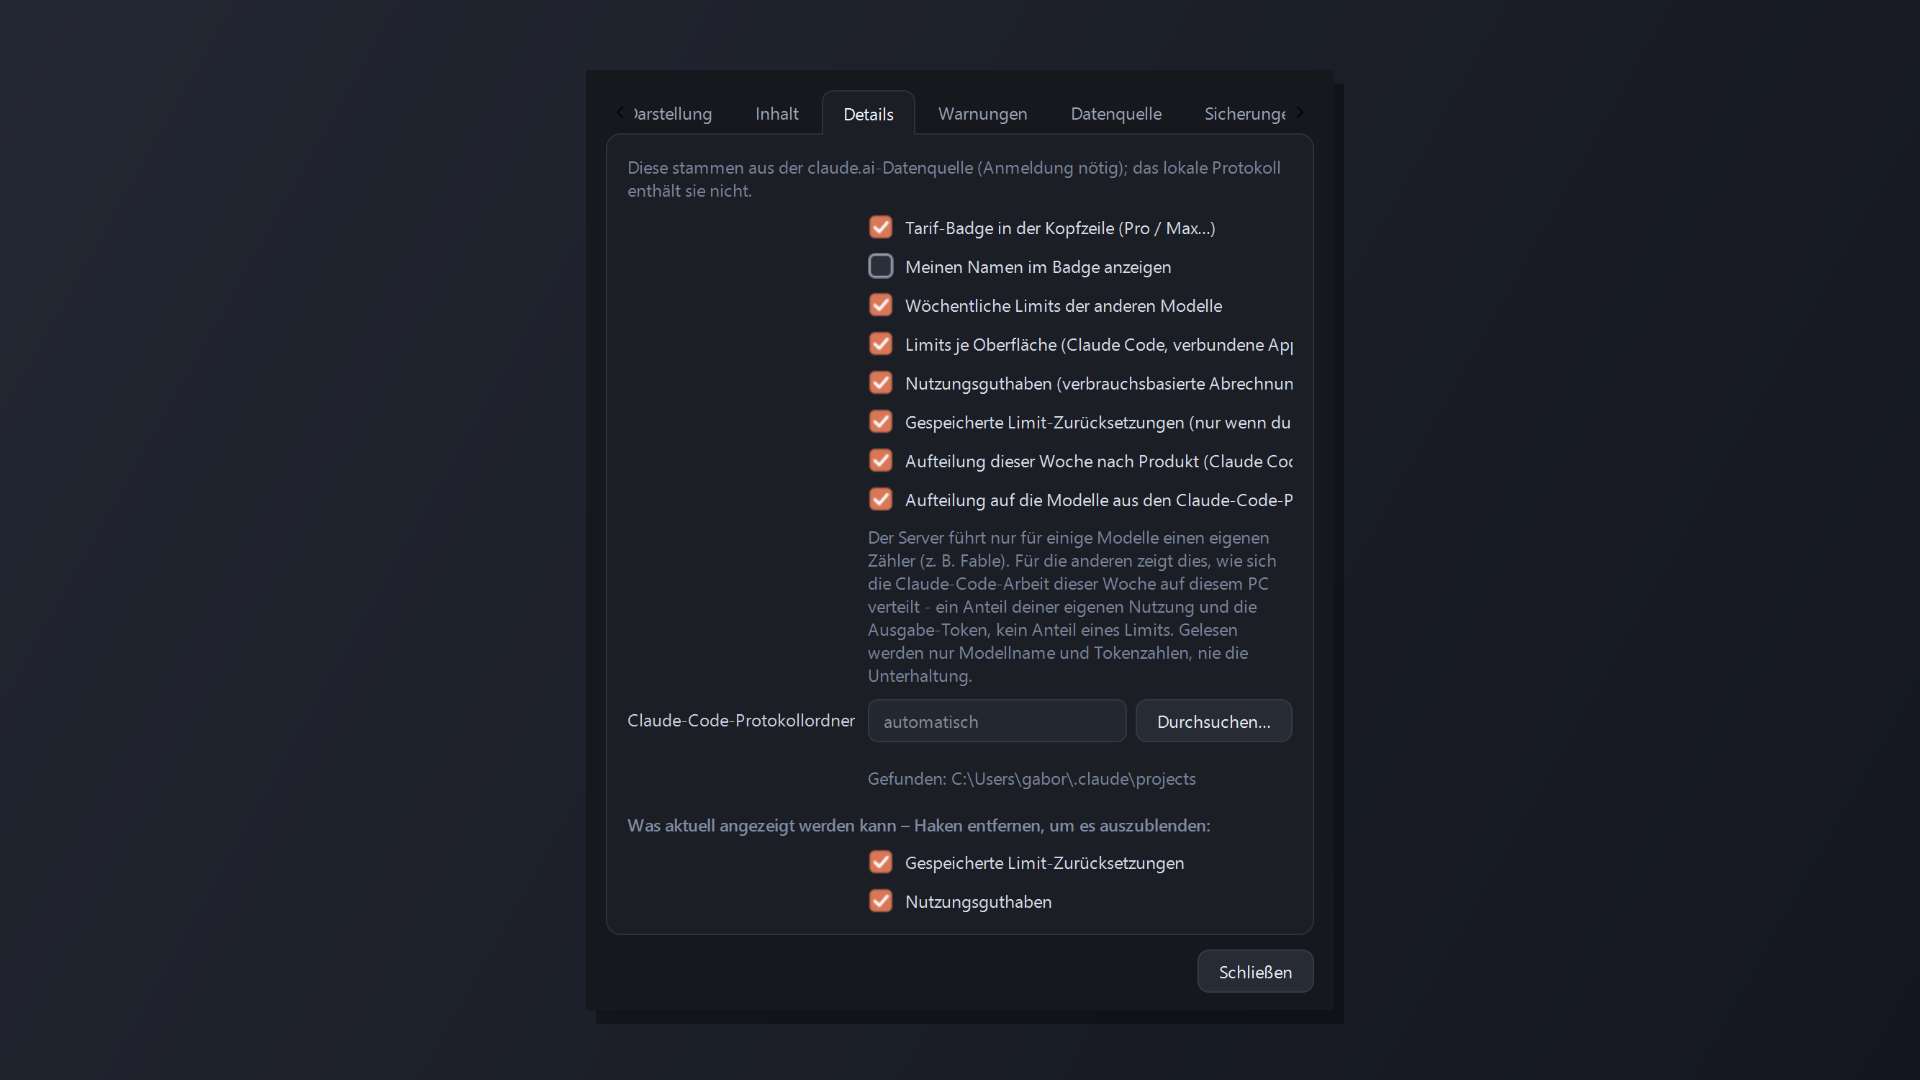
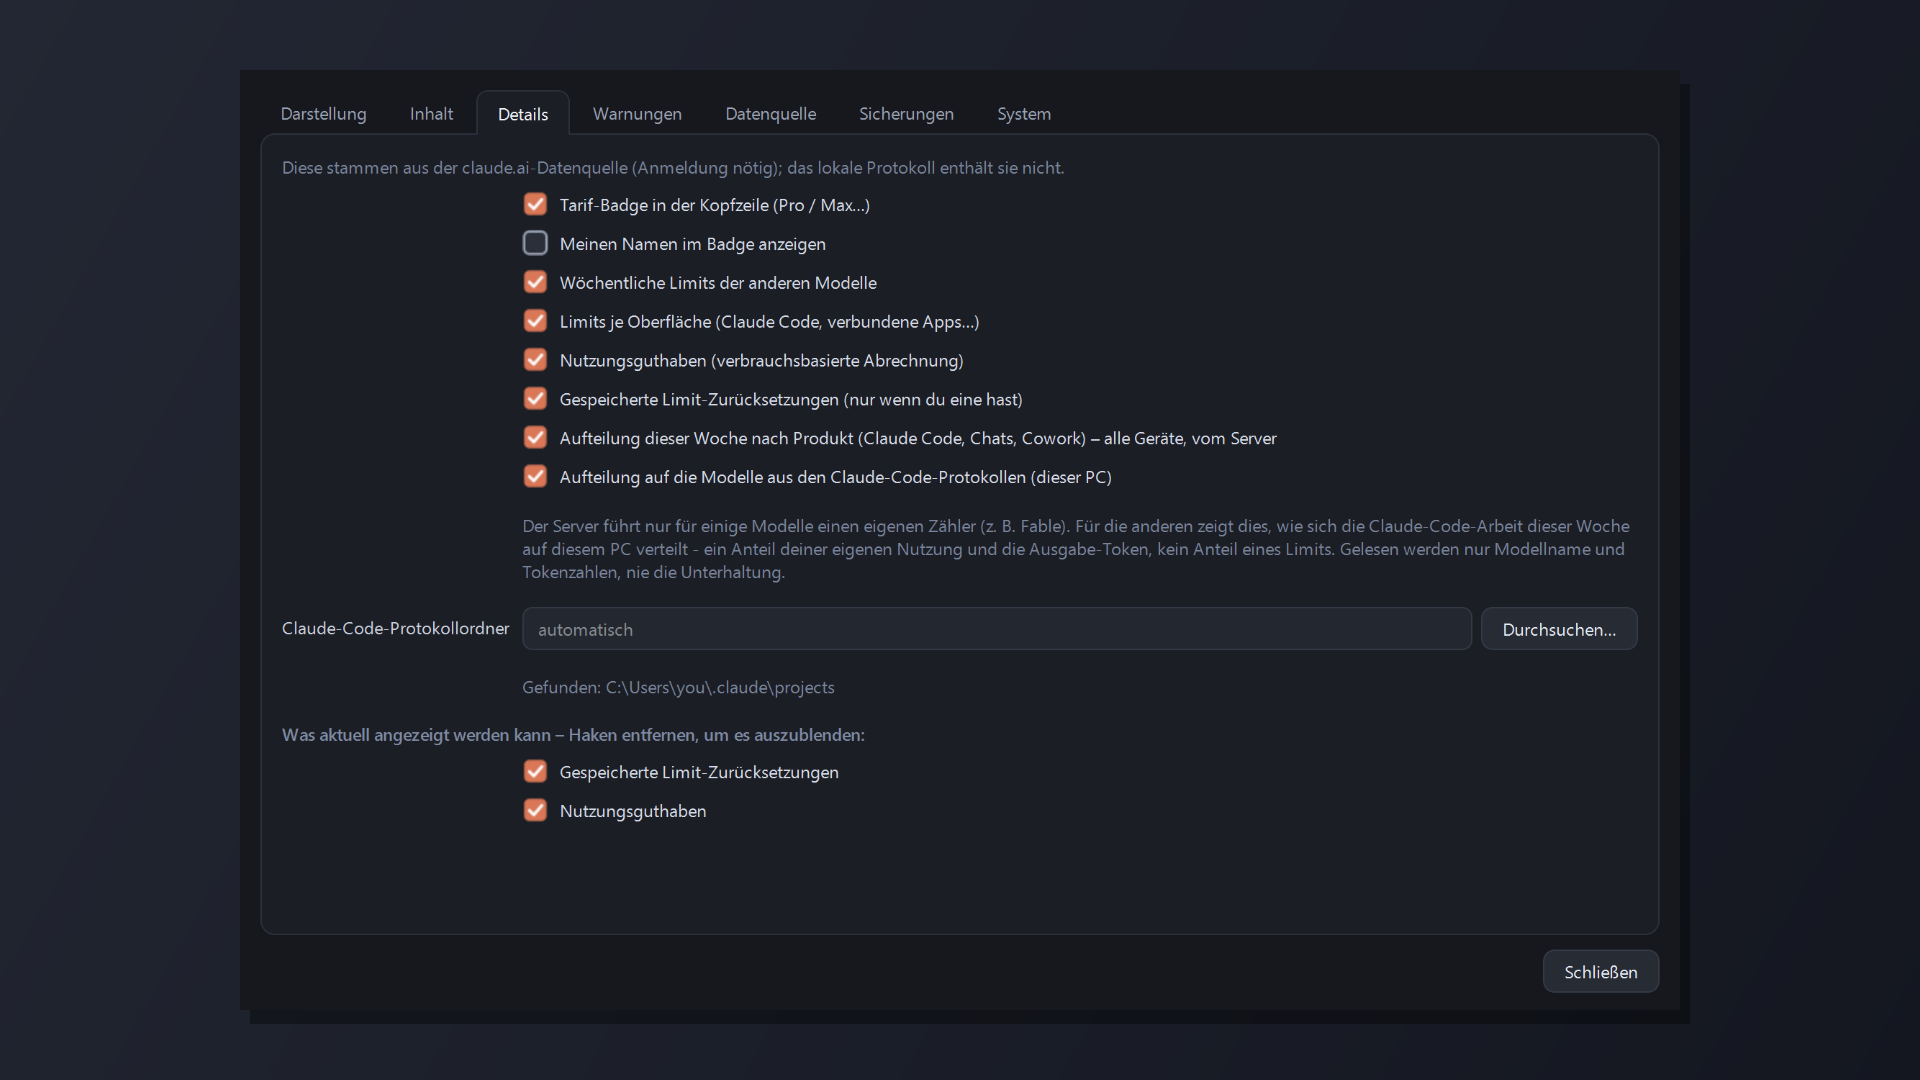
Store listings: en/hu/de/fr texts and screenshots (Store name, no personal folder in the shots) (#18)
- docs/store/LISTING-TEXTS.md: description, short description, search terms and copyright line for the
  four listing languages (English US, Hungarian, German, French).
- tools/make_store_shots.py: the settings shot shows a neutral C:\Users\you\.claude\projects instead of
  the real folder of the rendering machine (it showed the user name), and the dialog is wide enough
  for French and German (no cut-off tab or check box label).
- Screenshots re-rendered in Store mode for en, hu, de and new fr.

diff --git a/tools/make_store_shots.py b/tools/make_store_shots.py
@@ -218,7 +218,11 @@ def shoot(code: str, out_root: str) -> list:
     tabs = dlg.findChild(QTabWidget)
     if tabs:
         tabs.setCurrentIndex(2)             # Details
-    dlg.resize(520, 470)
+    # never the real folder of the machine that renders the shots (it shows the user name)
+    if getattr(dlg, "lbl_lmfound", None) is not None:
+        dlg.lbl_lmfound.setText(i18n.tr("set.backup_found", "C:\\Users\\you\\.claude\\projects"))
+    # wide enough for the longest languages (French, German): no cut-off tab or check box label
+    dlg.resize(1000, 520)
     shot(5, "settings", [grab(dlg)], _cap(code, 5))
     dlg.close()
 

diff --git a/docs/store/LISTING-TEXTS.md b/docs/store/LISTING-TEXTS.md
@@ -1,0 +1,151 @@
+# Microsoft Store – listing texts (Usage Monitor for Claude AI)
+
+Partner Center > Usage Monitor for Claude AI > Submission > Store listings > <language>.
+Four listing languages: English (United States), Hungarian, German, French. For every language:
+
+| Field | Value |
+|---|---|
+| Screenshots (Desktop) | `docs\store\screenshots\<en|hu|de|fr>\01-panel.png … 06-themes.png` (all six; captions in `docs\store\captions-<lang>.txt`) |
+| Store logo – 1:1 App tile icon | `docs\store\AppTileIcon-300x300.png` (same for every language) |
+| Super hero art (optional) | `docs\store\SuperHero-1920x1080.png` |
+| Privacy policy | set once under Properties: `https://claudeusagemonitor.com/legal/store-en.html` |
+
+---
+
+## English (United States)
+
+**Description**
+
+```
+See how much of your Claude subscription you have used – always on top, at a glance.
+
+• 5-hour and weekly limits, the per-model limit (e.g. Fable), reset countdown, burn rate and pace
+• Every other limit the server reports: connected apps, routines, usage credits, saved limit resets
+• This week's split by product (Claude Code, chats, Cowork) and, from Claude Code's local logs, by model
+• History window: 6 hours, 24 hours or 7 days, with peak, average and an end-of-week projection
+• Quiet notifications at thresholds you choose, and when a limit resets
+• Six themes, three layouts, 34 languages
+
+Two data sources: Claude Desktop's local log on this PC (no sign-in), or your claude.ai account for all your devices (sign-in in your own browser, as Claude Code does). The program talks only to Anthropic's servers and, for the optional "Message to the developer" form, to claudeusagemonitor.com. No telemetry.
+
+Unofficial community tool, not affiliated with or endorsed by Anthropic. "Claude" is a trademark of Anthropic, PBC. Free and open source (MIT).
+```
+
+**Short description**
+
+```
+See how much of your Claude subscription you have used – 5-hour and weekly limits, reset times and pace, always on top.
+```
+
+**Search terms** (one per box): `claude` · `usage` · `limits` · `monitor` · `anthropic` · `quota` · `tray`
+
+**Copyright and trademark info**
+
+```
+© 2026 30 km.hu Kft. Unofficial tool, not affiliated with or endorsed by Anthropic. "Claude" is a trademark of Anthropic, PBC.
+```
+
+---
+
+## Hungarian (magyar)
+
+**Description**
+
+```
+Lásd egy pillantással, mennyit használtál el a Claude-előfizetésedből – mindig felül, mindig szem előtt.
+
+• Az 5 órás és a heti limit, a modellenkénti limit (pl. Fable), visszaszámlálás a visszaállásig, fogyási ütem és tempó
+• Minden további limit, amit a szerver jelez: kapcsolt alkalmazások, rutinok, használati kredit, elmentett limit-visszaállítás
+• E heti megoszlás termékenként (Claude Code, csevegés, Cowork), és a Claude Code helyi naplóiból modellenként
+• Előzmény-ablak: 6 óra, 24 óra vagy 7 nap, csúccsal, átlaggal és hét végi előrejelzéssel
+• Csendes értesítések az általad választott küszöböknél, és amikor egy limit visszaáll
+• Hat téma, három elrendezés, 34 nyelv
+
+Két adatforrás: a Claude Desktop helyi naplója ezen a gépen (bejelentkezés nélkül), vagy a claude.ai fiókod az összes eszközödre (bejelentkezés a saját böngésződben, ahogy a Claude Code is csinálja). A program csak az Anthropic szervereivel beszél, és a nem kötelező „Üzenet a fejlesztőnek” űrlapnál a claudeusagemonitor.com-mal. Nincs telemetria.
+
+Nem hivatalos közösségi eszköz, nem kapcsolódik az Anthropichoz, és az Anthropic nem támogatja. A „Claude” az Anthropic, PBC védjegye. Ingyenes és nyílt forráskódú (MIT).
+```
+
+**Short description**
+
+```
+Lásd, mennyit használtál el a Claude-előfizetésedből – 5 órás és heti limit, visszaállás, tempó, mindig felül.
+```
+
+**Search terms**: `claude` · `használat` · `limit` · `monitor` · `anthropic` · `kvóta` · `tálca`
+
+**Copyright and trademark info**
+
+```
+© 2026 30 km.hu Kft. Nem hivatalos eszköz, nem kapcsolódik az Anthropichoz, és az Anthropic nem támogatja. A „Claude” az Anthropic, PBC védjegye.
+```
+
+---
+
+## German (Deutsch)
+
+**Description**
+
+```
+Sieh auf einen Blick, wie viel deines Claude-Abos du verbraucht hast – immer im Vordergrund.
+
+• 5-Stunden- und Wochenlimit, das modellbezogene Limit (z. B. Fable), Countdown bis zum Zurücksetzen, Verbrauchsrate und Tempo
+• Jedes weitere Limit, das der Server meldet: verbundene Apps, Routinen, Nutzungsguthaben, gespeicherte Limit-Zurücksetzungen
+• Die Aufteilung dieser Woche nach Produkt (Claude Code, Chats, Cowork) und, aus den lokalen Claude-Code-Protokollen, nach Modell
+• Verlaufsfenster: 6 Stunden, 24 Stunden oder 7 Tage, mit Spitze, Durchschnitt und Prognose zum Wochenende
+• Dezente Benachrichtigungen bei Schwellen deiner Wahl und wenn ein Limit zurückgesetzt wird
+• Sechs Designs, drei Layouts, 34 Sprachen
+
+Zwei Datenquellen: das lokale Protokoll von Claude Desktop auf diesem PC (ohne Anmeldung) oder dein claude.ai-Konto für alle deine Geräte (Anmeldung in deinem eigenen Browser, wie bei Claude Code). Das Programm spricht nur mit den Servern von Anthropic und, für das optionale Formular „Nachricht an den Entwickler“, mit claudeusagemonitor.com. Keine Telemetrie.
+
+Inoffizielles Community-Tool, nicht mit Anthropic verbunden und nicht von Anthropic unterstützt. „Claude“ ist eine Marke von Anthropic, PBC. Kostenlos und Open Source (MIT).
+```
+
+**Short description**
+
+```
+Sieh, wie viel deines Claude-Abos verbraucht ist – 5-Stunden- und Wochenlimit, Zurücksetzung und Tempo, immer im Vordergrund.
+```
+
+**Search terms**: `claude` · `nutzung` · `limits` · `monitor` · `anthropic` · `kontingent` · `taskleiste`
+
+**Copyright and trademark info**
+
+```
+© 2026 30 km.hu Kft. Inoffizielles Tool, nicht mit Anthropic verbunden und nicht von Anthropic unterstützt. „Claude“ ist eine Marke von Anthropic, PBC.
+```
+
+---
+
+## French (français)
+
+**Description**
+
+```
+Voyez d'un coup d'œil quelle part de votre abonnement Claude vous avez utilisée – toujours au premier plan.
+
+• Limites de 5 heures et hebdomadaire, limite par modèle (p. ex. Fable), compte à rebours jusqu'à la réinitialisation, rythme de consommation
+• Toutes les autres limites indiquées par le serveur : applis connectées, routines, crédits d'utilisation, réinitialisations de limite en réserve
+• La répartition de la semaine par produit (Claude Code, discussions, Cowork) et, d'après les journaux locaux de Claude Code, par modèle
+• Fenêtre d'historique : 6 heures, 24 heures ou 7 jours, avec pic, moyenne et projection de fin de semaine
+• Notifications discrètes aux seuils de votre choix et quand une limite est réinitialisée
+• Six thèmes, trois dispositions, 34 langues
+
+Deux sources de données : le journal local de Claude Desktop sur ce PC (sans connexion), ou votre compte claude.ai pour tous vos appareils (connexion dans votre propre navigateur, comme le fait Claude Code). Le programme ne communique qu'avec les serveurs d'Anthropic et, pour le formulaire facultatif « Message au développeur », avec claudeusagemonitor.com. Aucune télémétrie.
+
+Outil communautaire non officiel, sans lien avec Anthropic et non approuvé par Anthropic. « Claude » est une marque d'Anthropic, PBC. Gratuit et open source (MIT).
+```
+
+**Short description**
+
+```
+Voyez quelle part de votre abonnement Claude est utilisée – limites de 5 heures et hebdomadaire, réinitialisation et rythme.
+```
+
+**Search terms**: `claude` · `utilisation` · `limites` · `moniteur` · `anthropic` · `quota` · `barre des tâches`
+
+**Copyright and trademark info**
+
+```
+© 2026 30 km.hu Kft. Outil non officiel, sans lien avec Anthropic et non approuvé par Anthropic. « Claude » est une marque d'Anthropic, PBC.
+```
